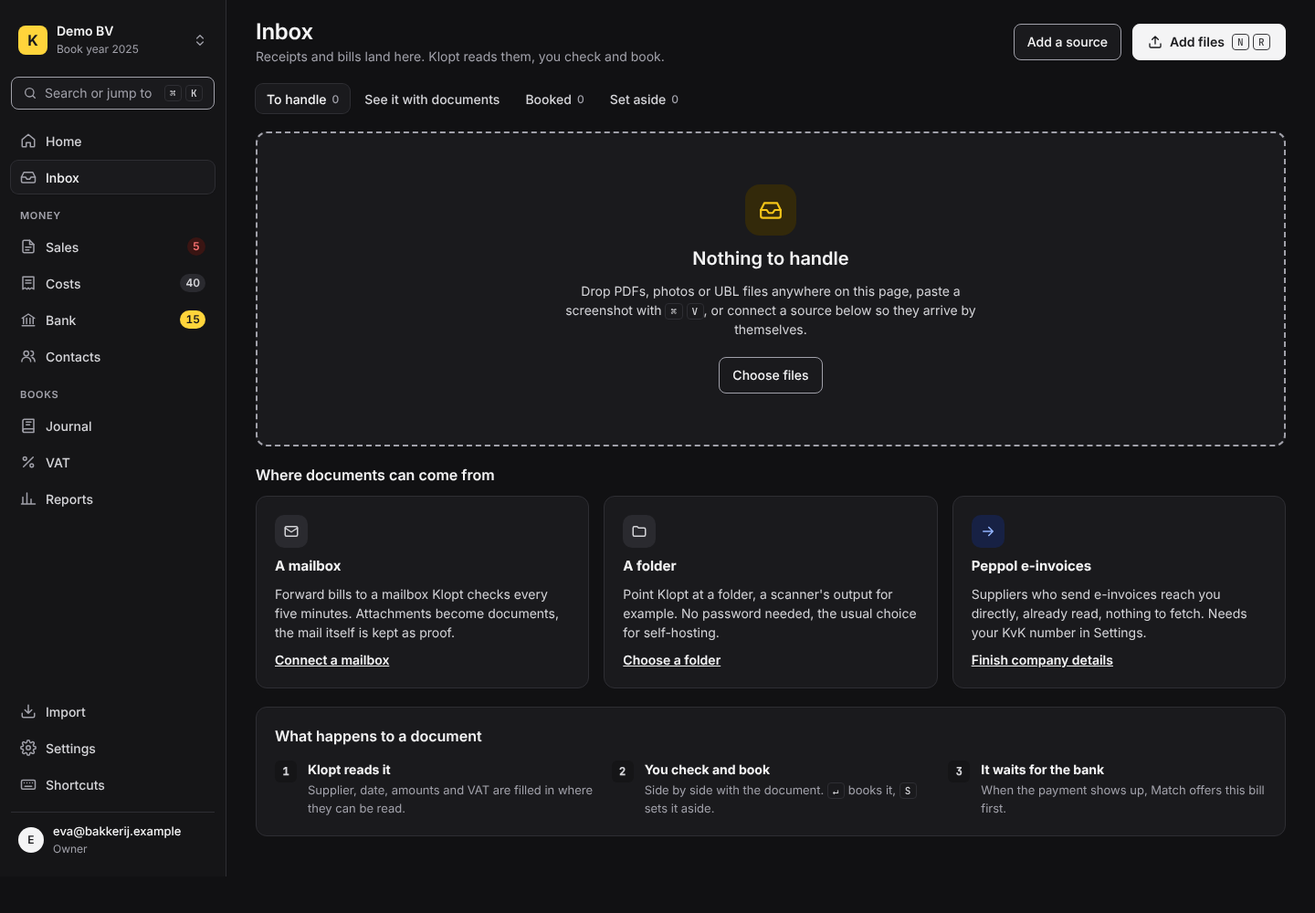
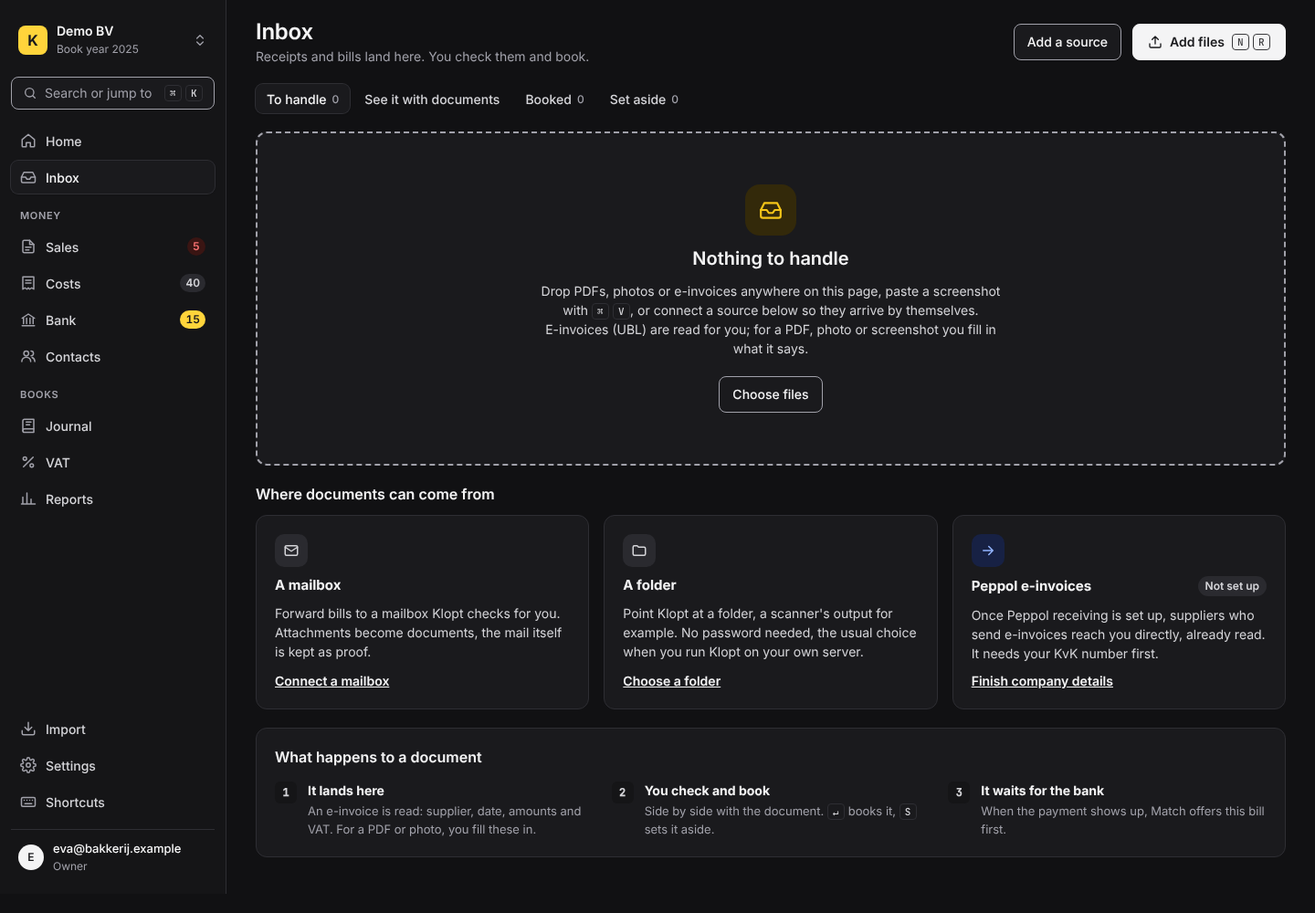
design: honest copy on the Inbox dark boards (#148)
InboxDark and InboxReviewDark become own files copied from Hidde's
boards, so they no longer promise that Klopt reads PDFs or photos
(#107 Phase 5). Drop, paste and screenshot intake stay, without the
reading claim. InboxReviewDark shows the PDF unhighlighted with an
empty form, and gets a view prop (pdf, ubl) as on PhoneInboxReview.
A11y fixes kept. DERIVED.md explains the copies and adds EN/NL copy.
Re-shot Inbox-dark-1440; InboxReview-dark-1440 becomes
InboxReview-pdf-dark-1440 and InboxReview-ubl-dark-1440.

Refs #148, Refs #140

diff --git a/design/redesign-2026-10/screens/InboxReviewDark.dc.html b/design/redesign-2026-10/screens/InboxReviewDark.dc.html
@@ -9,27 +9,150 @@
 </head>
 <body>
 <!--
-  Derived board, not drawn by Hidde (#148). Dark 1440: Hidde's InboxReview with theme="dark", the same way
-  HomeDark wraps Main. His markup holds up in dark once the control border token is fixed (the
-  VatDark override), so it is a thin wrapper, not a copy. Key hints in the dark primary button are
-  outlined in --on-primary. Self-hosted fonts. Copy is Hidde's; its links go to his light boards.
+  Derived board, not drawn by Hidde (#148). Dark 1440 of InboxReview.dc.html: same three columns.
+  Its own file, not a theme="dark" wrapper, because Hidde's board shows a PDF with "what Klopt read"
+  highlighted and ✓ checks, and POST /inbox reads only UBL and Peppol (#107 Phase 5, honest copy).
+  Derived boards drop that claim; Hidde's board is untouched. As on PhoneInboxReview:
+  `view` = pdf (default): the PDF has no highlights and the form starts empty, saying Klopt doesn't
+  read PDFs or photos; `view` = ubl: the Internet Voorbeeld e-invoice, highlighted and ✓ checked.
+  The list shows file names with "To fill in" for the PDF and the photo. Clicking either document
+  switches. Takes `theme` (default dark) and `view`.
+  A11y deviations (#107 decision 4): control borders on --ink-muted (3:1 or more), outlined key hints
+  in the dark primary button, the suggested category's yellow edge kept in dark (10.65:1) and drawn
+  as an inner ring over the --ink-muted border in light, self-hosted fonts.
 -->
 <x-dc>
 <helmet>
 <link rel="stylesheet" href="../design-system/fonts/fonts.css">
 <style>
-body{margin:0;background:#111113}
-.k-root[data-theme="dark"]{--line-control:var(--ink-muted)}
+body{margin:0;background:var(--ground)}
+a{color:var(--ink)}a:hover{color:var(--ink)}
+.k-root[data-theme]{--line-control:var(--ink-muted)}
+.k-root .k-input{border-color:var(--line-control)}
 .k-root[data-theme="dark"] .k-btn--primary .k-kbd--on-primary{border-color:var(--on-primary)}
+.k-root .k-input.sugg{box-shadow:inset 0 0 0 1px var(--selection-edge)}
+.k-root[data-theme="dark"] .k-input.sugg{border:2px solid var(--selection-edge);box-shadow:none}
+.note{margin:0;padding:12px 14px;border-radius:var(--radius-md);background:var(--surface-sunken);color:var(--ink-2);font-size:13px;line-height:1.5}
+.hl{background:rgba(255,212,59,.45);border-radius:2px;padding:0 2px}
+.read{display:inline-flex;align-items:center;gap:4px;font-size:12px;color:var(--success);font-weight:500}
+.check{display:inline-flex;align-items:center;gap:4px;font-size:12px;color:var(--brand-ink);font-weight:600}
 </style>
 </helmet>
-<div style="min-height: 1040px; background: #111113;">
-  <dc-import name="InboxReview" theme="dark" hint-size="100%,1040px"></dc-import>
+<div class="k-root" data-theme="{{theme}}" style="display: flex; flex-wrap: wrap; min-height: 1040px;">
+  <dc-import name="Sidebar" active="inbox" theme="{{theme}}" hint-size="248px,1100px"></dc-import>
+
+  <main style="flex: 999 1 560px; min-width: 0; display: flex; flex-direction: column; padding: 20px 32px 24px; gap: 16px; box-sizing: border-box;">
+    <header style="display: flex; flex-wrap: wrap; align-items: center; gap: 12px;">
+      <h1 style="margin: 0; font-size: 24px; line-height: 30px; font-weight: 600; letter-spacing: -0.01em; flex: 1;">Inbox</h1>
+      <span class="k-pill k-pill--draft">Example documents</span>
+      <a href="BillNewDark.dc.html" class="k-btn">Add files <span class="k-chord"><span class="k-kbd">N</span><span class="k-kbd">R</span></span></a>
+    </header>
+
+    <div style="display: flex; flex-wrap: wrap; gap: 16px; align-items: flex-start;">
+      <section aria-label="Documents" class="k-card k-card--flush" style="flex: 1 1 260px; max-width: 300px;">
+        <div class="k-seg" style="padding: 10px;" role="tablist" aria-label="Status">
+          <button type="button" role="tab" class="k-seg-item" aria-selected="true">To handle <span class="k-count">3</span></button>
+          <button type="button" role="tab" class="k-seg-item" aria-selected="false">Booked</button>
+        </div>
+        <button type="button" class="k-row" aria-selected="{{sel.pdf}}" onClick="{{pickPdf}}" style="padding: 12px 16px;">
+          <span style="flex: 1; display: flex; flex-direction: column; gap: 2px; min-width: 0;"><strong style="font-weight: 600;">factuur-november.pdf</strong><span class="k-muted" style="font-size: 12px;">PDF · email</span></span>
+          <span class="k-pill k-pill--draft">To fill in</span>
+        </button>
+        <button type="button" class="k-row" style="padding: 12px 16px;">
+          <span style="flex: 1; display: flex; flex-direction: column; gap: 2px; min-width: 0;"><strong style="font-weight: 600;">IMG_2041.jpg</strong><span class="k-muted" style="font-size: 12px;">photo · phone</span></span>
+          <span class="k-pill k-pill--draft">To fill in</span>
+        </button>
+        <button type="button" class="k-row" aria-selected="{{sel.ubl}}" onClick="{{pickUbl}}" style="padding: 12px 16px;">
+          <span style="flex: 1; display: flex; flex-direction: column; gap: 2px; min-width: 0;"><strong style="font-weight: 600;">Internet Voorbeeld</strong><span class="k-muted" style="font-size: 12px;">e-invoice · Peppol</span></span>
+          <span class="k-pill k-pill--paid">Ready</span>
+        </button>
+      </section>
+
+      <section aria-label="Document" style="flex: 1 1 360px; min-width: 0;">
+        <sc-if value="{{v.pdf}}" hint-placeholder-val="{{true}}">
+        <article class="k-paper" style="padding: 36px; font-size: 12px; line-height: 1.5; display: flex; flex-direction: column; gap: 18px;">
+          <div style="display: flex; justify-content: space-between;"><strong style="font-size: 16px;">Telecom Fictief (demo)</strong><span style="color: #63636b;">FACTUUR</span></div>
+          <div style="display: grid; grid-template-columns: auto 1fr; gap: 4px 14px;">
+            <span style="color: #63636b;">Factuurnummer</span><span>INK-DEMO-2025-0002</span>
+            <span style="color: #63636b;">Factuurdatum</span><span>24-11-2025</span>
+            <span style="color: #63636b;">Vervaldatum</span><span>24-12-2025</span>
+          </div>
+          <div style="border-top: 1.5px solid #18181b; padding-top: 8px; display: flex; justify-content: space-between;"><span>Zakelijk abonnement, november</span><span class="k-num">336,62</span></div>
+          <div style="margin-left: auto; display: grid; grid-template-columns: auto 80px; gap: 4px 16px; text-align: right;" class="k-num">
+            <span style="color: #63636b;">Subtotaal</span><span>336,62</span>
+            <span style="color: #63636b;">BTW 21%</span><span>70,69</span>
+            <strong>Totaal</strong><strong>407,31</strong>
+          </div>
+          <div style="flex: 1;"></div>
+          <span style="color: #63636b;">factuur-november.pdf · 1 page</span>
+        </article>
+        </sc-if>
+        <sc-if value="{{v.ubl}}" hint-placeholder-val="{{false}}">
+        <article class="k-paper" style="padding: 36px; font-size: 12px; line-height: 1.5; display: flex; flex-direction: column; gap: 18px;">
+          <div style="display: flex; justify-content: space-between;"><strong style="font-size: 16px;"><span class="hl">Internet Voorbeeld (demo)</span></strong><span style="color: #63636b;">FACTUUR</span></div>
+          <div style="display: grid; grid-template-columns: auto 1fr; gap: 4px 14px;">
+            <span style="color: #63636b;">Factuurnummer</span><span><span class="hl">INK-DEMO-2025-0003</span></span>
+            <span style="color: #63636b;">Factuurdatum</span><span><span class="hl">15-11-2025</span></span>
+            <span style="color: #63636b;">Vervaldatum</span><span><span class="hl">15-12-2025</span></span>
+          </div>
+          <div style="border-top: 1.5px solid #18181b; padding-top: 8px; display: flex; justify-content: space-between;"><span>Zakelijk internet, november</span><span class="k-num">208,95</span></div>
+          <div style="margin-left: auto; display: grid; grid-template-columns: auto 80px; gap: 4px 16px; text-align: right;" class="k-num">
+            <span style="color: #63636b;">Subtotaal</span><span><span class="hl">208,95</span></span>
+            <span style="color: #63636b;">BTW 21%</span><span><span class="hl">43,88</span></span>
+            <strong>Totaal</strong><strong><span class="hl">252,83</span></strong>
+          </div>
+          <div style="flex: 1;"></div>
+          <span style="color: #63636b;">Highlighted: what Klopt read from the e-invoice</span>
+        </article>
+        </sc-if>
+      </section>
+
+      <section aria-label="Check and book" class="k-card" style="flex: 1 1 300px; max-width: 360px; display: flex; flex-direction: column; gap: 14px;">
+        <h2 class="k-card-title">Check and book</h2>
+        <sc-if value="{{v.pdf}}" hint-placeholder-val="{{true}}">
+        <p class="note">Klopt doesn't read PDFs or photos. Fill in what the document says.</p>
+        <div class="k-field"><label class="k-label" for="a">Supplier</label><input id="a" class="k-input" placeholder="Start typing a name"></div>
+        <div style="display: grid; grid-template-columns: 1fr 1fr; gap: 12px;">
+          <div class="k-field"><label class="k-label" for="b">Bill date</label><input id="b" class="k-input k-num" placeholder="dd-mm-yyyy"></div>
+          <div class="k-field"><label class="k-label" for="c">Due</label><input id="c" class="k-input k-num" placeholder="dd-mm-yyyy"></div>
+        </div>
+        <div class="k-field"><label class="k-label" for="d">Total</label><input id="d" class="k-input k-num" placeholder="0,00"><span class="k-help">Including VAT</span></div>
+        <div class="k-field"><label class="k-label" for="e">Category</label><select id="e" class="k-input"><option>Choose a category</option><option>Phone and internet · 21%</option></select></div>
+        </sc-if>
+        <sc-if value="{{v.ubl}}" hint-placeholder-val="{{false}}">
+        <div class="k-field"><label class="k-label" for="a2">Supplier <span class="read">✓ known</span></label><input id="a2" class="k-input" value="Internet Voorbeeld (demo)"></div>
+        <div style="display: grid; grid-template-columns: 1fr 1fr; gap: 12px;">
+          <div class="k-field"><label class="k-label" for="b2">Bill date <span class="read">✓</span></label><input id="b2" class="k-input k-num" value="15-11-2025"></div>
+          <div class="k-field"><label class="k-label" for="c2">Due <span class="read">✓</span></label><input id="c2" class="k-input k-num" value="15-12-2025"></div>
+        </div>
+        <div class="k-field"><label class="k-label" for="d2">Total <span class="read">✓ sums check out</span></label><input id="d2" class="k-input k-num" value="252,83"></div>
+        <div class="k-field"><label class="k-label" for="e2">Category <span class="check">check this</span></label>
+          <select id="e2" class="k-input sugg"><option>Phone and internet · 21%</option></select>
+          <span class="k-help">Suggested from this supplier's earlier bills</span></div>
+        </sc-if>
+        <div style="display: flex; flex-direction: column; gap: 8px; margin-top: 4px;">
+          <button type="button" class="k-btn k-btn--primary" style="justify-content: center;">Book and next <span class="k-kbd k-kbd--on-primary">↵</span></button>
+          <div style="display: flex; gap: 8px;">
+            <button type="button" class="k-btn k-btn--sm" style="flex: 1; justify-content: center;">Set aside <span class="k-kbd">S</span></button>
+            <button type="button" class="k-btn k-btn--sm" style="flex: 1; justify-content: center;">Not a bill <span class="k-kbd">D</span></button>
+          </div>
+        </div>
+      </section>
+    </div>
+    <div class="k-hints"><span><span class="k-kbd">J</span> <span class="k-kbd">K</span> next, previous document</span><span><span class="k-kbd">Tab</span> next field</span><span><span class="k-kbd">Space</span> enlarge document</span></div>
+  </main>
 </div>
 </x-dc>
-<script type="text/x-dc" data-dc-script data-props='{"$preview":{"width":1440,"height":1040}}'>
+<script type="text/x-dc" data-dc-script data-props='{"theme":{"editor":"enum","options":["light","dark"],"default":"dark"},"view":{"editor":"enum","options":["pdf","ubl"],"default":"pdf"},"$preview":{"width":1440,"height":1040}}'>
 class Component extends DCLogic {
-  renderVals() { return {}; }
+  constructor(props) {
+    super(props);
+    this.state = { view: props.view ?? 'pdf' };
+  }
+  renderVals() {
+    const v = this.state.view;
+    return { theme: this.props.theme ?? 'dark', v: { pdf: v === 'pdf', ubl: v === 'ubl' }, sel: { pdf: v === 'pdf' ? 'true' : 'false', ubl: v === 'ubl' ? 'true' : 'false' }, pickPdf: () => this.setState({ view: 'pdf' }), pickUbl: () => this.setState({ view: 'ubl' }) };
+  }
 }
 </script>
 </body>

diff --git a/design/redesign-2026-10/screens/InboxDark.dc.html b/design/redesign-2026-10/screens/InboxDark.dc.html
@@ -9,27 +9,97 @@
 </head>
 <body>
 <!--
-  Derived board, not drawn by Hidde (#148). Dark 1440: Hidde's Inbox with theme="dark", the same way
-  HomeDark wraps Main. His markup holds up in dark once the control border token is fixed (the
-  VatDark override), so it is a thin wrapper, not a copy. Key hints in the dark primary button are
-  outlined in --on-primary. Self-hosted fonts. Copy is Hidde's; its links go to his light boards.
+  Derived board, not drawn by Hidde (#148). Dark 1440 of Inbox.dc.html: same layout, sources and steps.
+  Its own file, not a theme="dark" wrapper, because Hidde's copy promises that Klopt reads every
+  document ("Klopt reads them", "Klopt reads it"), and POST /inbox reads only UBL and Peppol (#107
+  Phase 5, honest copy). Derived boards drop that claim; Hidde's board is untouched. The copy
+  matches PhoneInbox: drop, paste and screenshot intake stay, but only e-invoices are said to be
+  read. The Peppol card says receiving isn't set up yet, and the mailbox card has no timing promise.
+  A11y deviations (#107 decision 4): control borders on --ink-muted (3:1 or more), outlined key hints
+  in the dark primary button, self-hosted fonts instead of Google Fonts.
 -->
 <x-dc>
 <helmet>
 <link rel="stylesheet" href="../design-system/fonts/fonts.css">
 <style>
-body{margin:0;background:#111113}
-.k-root[data-theme="dark"]{--line-control:var(--ink-muted)}
+body{margin:0;background:var(--ground)}
+a{color:var(--ink)}a:hover{color:var(--ink)}
+.k-root[data-theme]{--line-control:var(--ink-muted)}
+.nw{white-space:nowrap}
+.k-root .k-input{border-color:var(--line-control)}
 .k-root[data-theme="dark"] .k-btn--primary .k-kbd--on-primary{border-color:var(--on-primary)}
 </style>
 </helmet>
-<div style="min-height: 960px; background: #111113;">
-  <dc-import name="Inbox" theme="dark" hint-size="100%,960px"></dc-import>
+<div class="k-root" data-theme="{{theme}}" style="display: flex; flex-wrap: wrap; min-height: 960px;">
+  <dc-import name="Sidebar" active="inbox" theme="{{theme}}" hint-size="248px,960px"></dc-import>
+
+  <main style="flex: 999 1 560px; min-width: 0; padding: 20px 32px 40px; display: flex; flex-direction: column; gap: 20px; box-sizing: border-box;">
+    <header style="display: flex; flex-wrap: wrap; align-items: center; gap: 12px;">
+      <div style="flex: 1; min-width: 240px; display: flex; flex-direction: column; gap: 2px;">
+        <h1 style="margin: 0; font-size: 24px; line-height: 30px; font-weight: 600; letter-spacing: -0.01em;">Inbox</h1>
+        <p style="margin: 0; font-size: 14px; color: var(--ink-muted);">Receipts and bills land here. You check them and book.</p>
+      </div>
+      <button type="button" class="k-btn">Add a source</button>
+      <button type="button" class="k-btn k-btn--primary">
+        <svg width="16" height="16" viewBox="0 0 24 24" fill="none" stroke="currentColor" stroke-width="2" stroke-linecap="round" stroke-linejoin="round" aria-hidden="true"><path d="M21 15v4a2 2 0 0 1-2 2H5a2 2 0 0 1-2-2v-4M17 8l-5-5-5 5M12 3v12"/></svg>
+        Add files <span class="k-chord"><span class="k-kbd k-kbd--on-primary">N</span><span class="k-kbd k-kbd--on-primary">R</span></span>
+      </button>
+    </header>
+
+    <div class="k-seg" role="tablist" aria-label="Inbox status">
+      <button type="button" role="tab" class="k-seg-item" aria-selected="true">To handle <span class="k-count">0</span></button>
+      <a href="InboxReviewDark.dc.html" class="k-seg-item" style="text-decoration: none;">See it with documents</a>
+      <button type="button" role="tab" class="k-seg-item" aria-selected="false">Booked <span class="k-count">0</span></button>
+      <button type="button" role="tab" class="k-seg-item" aria-selected="false">Set aside <span class="k-count">0</span></button>
+    </div>
+
+    <section aria-label="Drop files" style="border: 2px dashed var(--line-control); border-radius: var(--radius-xl); background: var(--surface); padding: 56px 32px; display: flex; flex-direction: column; align-items: center; gap: 12px; text-align: center;">
+      <span class="k-tile k-tile--brand" style="width: 56px; height: 56px; border-radius: 16px;">
+        <svg width="26" height="26" viewBox="0 0 24 24" fill="none" stroke="currentColor" stroke-width="2" stroke-linecap="round" stroke-linejoin="round" aria-hidden="true"><path d="M22 12h-6l-2 3h-4l-2-3H2"/><path d="M5.5 5h13L22 12v6a2 2 0 0 1-2 2H4a2 2 0 0 1-2-2v-6z"/></svg>
+      </span>
+      <h2 style="margin: 0; font-size: 20px; line-height: 26px; font-weight: 600;">Nothing to handle</h2>
+      <p style="margin: 0; max-width: 520px; color: var(--ink-2); line-height: 1.5;">Drop PDFs, photos or e-invoices anywhere on this page, paste a screenshot with <span class="k-chord"><span class="k-kbd">⌘</span><span class="k-kbd">V</span></span>, or connect a source below so they arrive by themselves. <span class="nw">E-invoices</span> (UBL) are read for you; for a PDF, photo or screenshot you fill in what it says.</p>
+      <button type="button" class="k-btn" style="margin-top: 8px;">Choose files</button>
+    </section>
+
+    <section aria-labelledby="src-h" style="display: flex; flex-direction: column; gap: 12px;">
+      <h2 id="src-h" class="k-card-title">Where documents can come from</h2>
+      <div style="display: grid; grid-template-columns: repeat(auto-fit, minmax(260px, 1fr)); gap: 16px;">
+        <div class="k-card" style="display: flex; flex-direction: column; gap: 10px;">
+          <span class="k-tile"><svg width="18" height="18" viewBox="0 0 24 24" fill="none" stroke="currentColor" stroke-width="2" stroke-linecap="round" stroke-linejoin="round" aria-hidden="true"><rect x="3" y="5" width="18" height="14" rx="2"/><path d="m3 7 9 6 9-6"/></svg></span>
+          <strong style="font-size: 15px;">A mailbox</strong>
+          <span style="color: var(--ink-2); line-height: 1.5;">Forward bills to a mailbox Klopt checks for you. Attachments become documents, the mail itself is kept as proof.</span>
+          <a href="#" style="font-weight: 600; margin-top: auto;">Connect a mailbox</a>
+        </div>
+        <div class="k-card" style="display: flex; flex-direction: column; gap: 10px;">
+          <span class="k-tile"><svg width="18" height="18" viewBox="0 0 24 24" fill="none" stroke="currentColor" stroke-width="2" stroke-linecap="round" stroke-linejoin="round" aria-hidden="true"><path d="M3 7a2 2 0 0 1 2-2h4l2 2h8a2 2 0 0 1 2 2v8a2 2 0 0 1-2 2H5a2 2 0 0 1-2-2z"/></svg></span>
+          <strong style="font-size: 15px;">A folder</strong>
+          <span style="color: var(--ink-2); line-height: 1.5;">Point Klopt at a folder, a scanner's output for example. No password needed, the usual choice when you run Klopt on your own server.</span>
+          <a href="#" style="font-weight: 600; margin-top: auto;">Choose a folder</a>
+        </div>
+        <div class="k-card" style="display: flex; flex-direction: column; gap: 10px;">
+          <span class="k-tile k-tile--info"><svg width="18" height="18" viewBox="0 0 24 24" fill="none" stroke="currentColor" stroke-width="2" stroke-linecap="round" stroke-linejoin="round" aria-hidden="true"><path d="M5 12h14M13 6l6 6-6 6"/></svg></span>
+          <span style="display: flex; align-items: center; gap: 8px;"><strong style="font-size: 15px; flex: 1;">Peppol e-invoices</strong><span class="k-pill k-pill--draft">Not set up</span></span>
+          <span style="color: var(--ink-2); line-height: 1.5;">Once Peppol receiving is set up, suppliers who send e-invoices reach you directly, already read. It needs your KvK number first.</span>
+          <a href="Settings.dc.html" style="font-weight: 600; margin-top: auto;">Finish company details</a>
+        </div>
+      </div>
+    </section>
+
+    <section aria-labelledby="how-h" class="k-card" style="display: flex; flex-direction: column; gap: 16px;">
+      <h2 id="how-h" class="k-card-title">What happens to a document</h2>
+      <ol style="margin: 0; padding: 0; list-style: none; display: grid; grid-template-columns: repeat(auto-fit, minmax(220px, 1fr)); gap: 20px;">
+        <li style="display: flex; gap: 12px;"><span class="k-option-key">1</span><span style="display: flex; flex-direction: column; gap: 2px;"><strong>It lands here</strong><span style="color: var(--ink-muted); font-size: 13px;">An e-invoice is read: supplier, date, amounts and VAT. For a PDF or photo, you fill these in.</span></span></li>
+        <li style="display: flex; gap: 12px;"><span class="k-option-key">2</span><span style="display: flex; flex-direction: column; gap: 2px;"><strong>You check and book</strong><span style="color: var(--ink-muted); font-size: 13px;">Side by side with the document. <span class="k-kbd">↵</span> books it, <span class="k-kbd">S</span> sets it aside.</span></span></li>
+        <li style="display: flex; gap: 12px;"><span class="k-option-key">3</span><span style="display: flex; flex-direction: column; gap: 2px;"><strong>It waits for the bank</strong><span style="color: var(--ink-muted); font-size: 13px;">When the payment shows up, Match offers this bill first.</span></span></li>
+      </ol>
+    </section>
+  </main>
 </div>
 </x-dc>
-<script type="text/x-dc" data-dc-script data-props='{"$preview":{"width":1440,"height":960}}'>
+<script type="text/x-dc" data-dc-script data-props='{"theme":{"editor":"enum","options":["light","dark"],"default":"dark"},"$preview":{"width":1440,"height":960}}'>
 class Component extends DCLogic {
-  renderVals() { return {}; }
+  renderVals() { return { theme: this.props.theme ?? 'dark', }; }
 }
 </script>
 </body>

diff --git a/design/redesign-2026-10/DERIVED.md b/design/redesign-2026-10/DERIVED.md
@@ -8,32 +8,34 @@ Hidde's two desktop-light Inbox boards (`Inbox`, `InboxReview`) get a dark 1440 
 
 | Board | What it is | Screenshots in `derived-shots/inbox-148/` |
 | --- | --- | --- |
-| `InboxDark.dc.html` | Thin wrapper: Hidde's `Inbox` with `theme="dark"`, `--line-control` on `--ink-muted` and outlined key hints in the primary button | `Inbox-dark-1440` |
-| `InboxReviewDark.dc.html` | Thin wrapper: Hidde's `InboxReview`, same overrides | `InboxReview-dark-1440` |
+| `InboxDark.dc.html`, `theme` prop (default dark) | Own file: Hidde's `Inbox` with honest copy, `--line-control` on `--ink-muted`, outlined key hints in the primary button, self-hosted fonts | `Inbox-dark-1440` |
+| `InboxReviewDark.dc.html`, `theme` (default dark) and `view` props | Own file: Hidde's `InboxReview` in the honest PDF state (`view=pdf`, default) or with the e-invoice open (`view=ubl`), same overrides | `InboxReview-{pdf,ubl}-dark-1440` |
 | `PhoneInbox.dc.html`, `theme` prop | First run at 390: status chips, the empty card with Take a photo and Choose files, three sources, three steps | `Inbox-light-390` |
 | `PhoneInboxDark.dc.html` | `PhoneInbox` with `theme="dark"` | `Inbox-dark-390` |
 | `PhoneInboxReview.dc.html`, `theme` and `view` props | Check and book at 390: documents, the open document, the form, sticky Book and next | `InboxReview-{pdf,ubl}-light-390` |
 | `PhoneInboxReviewDark.dc.html`, `view` prop | `PhoneInboxReview` with `theme="dark"`, passes `view` on | `InboxReview-{pdf,ubl}-dark-390` |
 
-`view` on `PhoneInboxReview` is `pdf` (Hidde's Telecom Fictief PDF is open; the default) or `ubl` (the Internet Voorbeeld e-invoice is open). Tapping either document switches.
+`view` on `InboxReviewDark` and `PhoneInboxReview` is `pdf` (Hidde's Telecom Fictief PDF is open; the default) or `ubl` (the Internet Voorbeeld e-invoice is open). Tapping either document switches.
 
 All six boards are registered in `canvas.json` (note `t148` at y 37700, boards at y 38000, under the #147 rows): the two dark desktop boards at x 0 and 1520, the four phone boards at x 3040 to 4450. Each entry has `"derived": true` and a `derivedNote`.
 
-### Why both dark boards are wrappers
+### Why both dark boards are copies
 
-Neither board has a tab in state, and in dark both hold up once the control border token is fixed: the drop zone's dashed border and the buttons use `--line-control`, and the category select's `selection-edge` border is 10.65:1 on the dark surface (in light it is 1.90:1, which is why the phone board draws it differently). The wrappers also outline the key hints in the dark primary button in `--on-primary`, from the same document's stylesheet. So no copy is needed.
+A first version of this PR made them thin wrappers, which kept Hidde's copy: "Klopt reads them", "Klopt reads it", and highlights with ✓ checks on a PDF. `POST /inbox` reads only UBL and Peppol, and #107 Phase 5 says derived boards drop claims like that while Hidde's boards stay as drawn. A wrapper can't change copy, so both are now own files copied from Hidde's boards, with the copy of the phone boards (below). Hidde's `Inbox` and `InboxReview` are unchanged and still need the same fix in whichever PR owns them.
 
-The dark desktop boards keep Hidde's copy, which still promises reading: "Klopt reads them", "Drop PDFs, photos… paste a screenshot", "Klopt reads it", and the highlights and ✓ checks on a PDF. #148 allows only the a11y departures on these boards, and the honest-copy rule in #148 is for the phone boards. #107 Phase 5 applies it to the port as well, so Hidde's light board and these wrappers need the same copy fix in whichever PR owns them. The phone boards below are written to it already.
+- `InboxDark`: same layout, sources and steps. The drop, paste (⌘V) and screenshot intake stay, but the text no longer says they get read: "Drop PDFs, photos or e-invoices anywhere on this page, paste a screenshot with ⌘V, or connect a source below so they arrive by themselves. E-invoices (UBL) are read for you; for a PDF, photo or screenshot you fill in what it says." The header, the three source cards and step 1 use the phone copy. The text block is 520px wide (Hidde: 460px) for the longer line.
+- `InboxReviewDark`: same three columns. With `view=pdf` (default) the PDF has no highlights, its footer is "factuur-november.pdf · 1 page", and the form starts empty under "Klopt doesn't read PDFs or photos. Fill in what the document says." With `view=ubl` the Internet Voorbeeld e-invoice is open, highlighted, with Hidde's ✓ labels and "check this" category. The documents list matches the phone board; clicking the PDF or the e-invoice switches.
+- Kept from the wrappers: control borders on `--ink-muted`, outlined key hints in the dark primary button. The suggested category keeps Hidde's 2px yellow `selection-edge` border in dark (10.65:1); in light it is drawn as the inner ring over the `--ink-muted` border, as on phone. Fonts are self-hosted (`fonts.css`) instead of Google Fonts. Cross-links go to `InboxReviewDark` and `BillNewDark`.
 
 ### Honest copy (#107 Phase 5, #148)
 
-`POST /inbox` reads UBL and Peppol only. On the phone boards:
+`POST /inbox` reads UBL and Peppol only. On all six boards:
 
 - Nothing promises reading PDFs, photos or screenshots. "Klopt reads them" becomes "You check them and book"; step 1 is "It lands here: an e-invoice is read… For a PDF or photo, you fill these in"; the empty card says "E-invoices (UBL) are read for you. For a PDF or photo, you fill in supplier, amount and VAT next to it."
 - Highlights, "Highlighted: what Klopt read" and the ✓ checks appear only for the e-invoice (`view=ubl`). With the PDF open (`view=pdf`), the document has no highlights and the form starts empty under "Klopt doesn't read PDFs or photos. Fill in what the document says."
 - For the same reason the documents list shows file names (`factuur-november.pdf`, `IMG_2041.jpg`) with a "To fill in" pill, not a read supplier and amount; the e-invoice shows its supplier and "Ready", as on Hidde's board.
 - The Peppol card says "Not set up" and "Once Peppol receiving is set up…", matching "Not reachable yet" on SettingsCompany. The mailbox card drops "every five minutes" (no timing promise). The folder card says "the usual choice when you run Klopt on your own server".
-- No paste-a-screenshot and no key hints on phone.
+- On the dark desktop boards the drop, paste and screenshot intake stay, without a promise that they get read. No paste-a-screenshot and no key hints on phone.
 
 ### Rules for these boards
 
@@ -42,7 +44,7 @@ The dark desktop boards keep Hidde's copy, which still promises reading: "Klopt 
 - Links are ink and underlined, 44px tall on phone ("See it with example documents", the three source links, "‹ Inbox"). No `ink-faint` for text. No new status colours: "To fill in" is the draft pill, "Ready" the paid pill, "check this" stays `brand-ink`, the ✓ stays `success`.
 - Phone: `.k-phone` at 390, Hidde's five-tab bar with More active (Inbox lives under More), sticky at the bottom. Targets are 44px or more; document rows are 60px. Book and next is 48px; Set aside and Not a bill are 44px, all in a sticky bar above the tab bar.
 - Amounts and dates are Inter with tabular figures (`.k-num`, `nw` on amounts). The step numbers are Inter (Hidde's `.k-option-key` is JetBrains Mono). `.k-paper` stays white in both themes.
-- `shoot.mjs` printed no QA warnings for the eight shots.
+- `shoot.mjs` printed no QA warnings for the nine shots.
 
 ### Invented, for Hidde to check
 
@@ -70,7 +72,7 @@ From `design/redesign-2026-10/`:
 
 ```sh
 O=derived-shots/inbox-148
-node derived-shots/render/shoot.mjs $O --width=1440 'InboxDark.dc.html?theme=dark=Inbox-dark-1440' 'InboxReviewDark.dc.html?theme=dark=InboxReview-dark-1440'
+node derived-shots/render/shoot.mjs $O --width=1440 'InboxDark.dc.html?theme=dark=Inbox-dark-1440' 'InboxReviewDark.dc.html?theme=dark&view=pdf=InboxReview-pdf-dark-1440' 'InboxReviewDark.dc.html?theme=dark&view=ubl=InboxReview-ubl-dark-1440'
 node derived-shots/render/shoot.mjs $O --width=390 'PhoneInbox.dc.html=Inbox-light-390' 'PhoneInboxDark.dc.html?theme=dark=Inbox-dark-390' \
   $(for v in pdf ubl; do echo "PhoneInboxReview.dc.html?view=$v=InboxReview-$v-light-390" "PhoneInboxReviewDark.dc.html?theme=dark&view=$v=InboxReview-$v-dark-390"; done)
 ```
@@ -83,6 +85,7 @@ Strings Hidde already has on his Inbox boards are not repeated here.
 
 | English (board) | Nederlands |
 | --- | --- |
+| Drop PDFs, photos or e-invoices anywhere on this page, paste a screenshot with ⌘V, or connect a source below so they arrive by themselves. E-invoices (UBL) are read for you; for a PDF, photo or screenshot you fill in what it says. | Sleep pdf's, foto's of e-facturen ergens op deze pagina, plak een screenshot met ⌘V, of stel hieronder een bron in zodat ze vanzelf binnenkomen. E-facturen (UBL) worden voor je gelezen; bij een pdf, foto of screenshot vul je zelf in wat erop staat. |
 | Receipts and bills land here. You check them and book. | Bonnen en facturen komen hier binnen. Jij controleert en boekt ze. |
 | See it with example documents | Bekijk het met voorbeelddocumenten |
 | Take a photo, add a PDF or UBL file, or connect a source below so they arrive by themselves. | Maak een foto, voeg een pdf of UBL-bestand toe, of stel hieronder een bron in zodat ze vanzelf binnenkomen. |
@@ -96,7 +99,7 @@ Strings Hidde already has on his Inbox boards are not repeated here.
 | Next to the document. Book it, or set it aside. | Naast het document. Boek het, of leg het apart. |
 | ‹ Inbox | ‹ Inbox |
 | To fill in | Nog invullen |
-| PDF · from email / Photo · from your phone / E-invoice · Peppol | Pdf · uit e-mail / Foto · van je telefoon / E-factuur · Peppol |
+| PDF · from email / Photo · from your phone / E-invoice · Peppol (desktop: PDF · email / photo · phone / e-invoice · Peppol) | Pdf · uit e-mail / Foto · van je telefoon / E-factuur · Peppol (desktop: pdf · e-mail / foto · telefoon / e-factuur · Peppol) |
 | factuur-november.pdf · 1 page | factuur-november.pdf · 1 pagina |
 | Klopt doesn't read PDFs or photos. Fill in what the document says. | Klopt leest geen pdf's of foto's. Vul in wat er op het document staat. |
 | Start typing a name / dd-mm-yyyy / Choose a category | Begin een naam te typen / dd-mm-jjjj / Kies een categorie |
